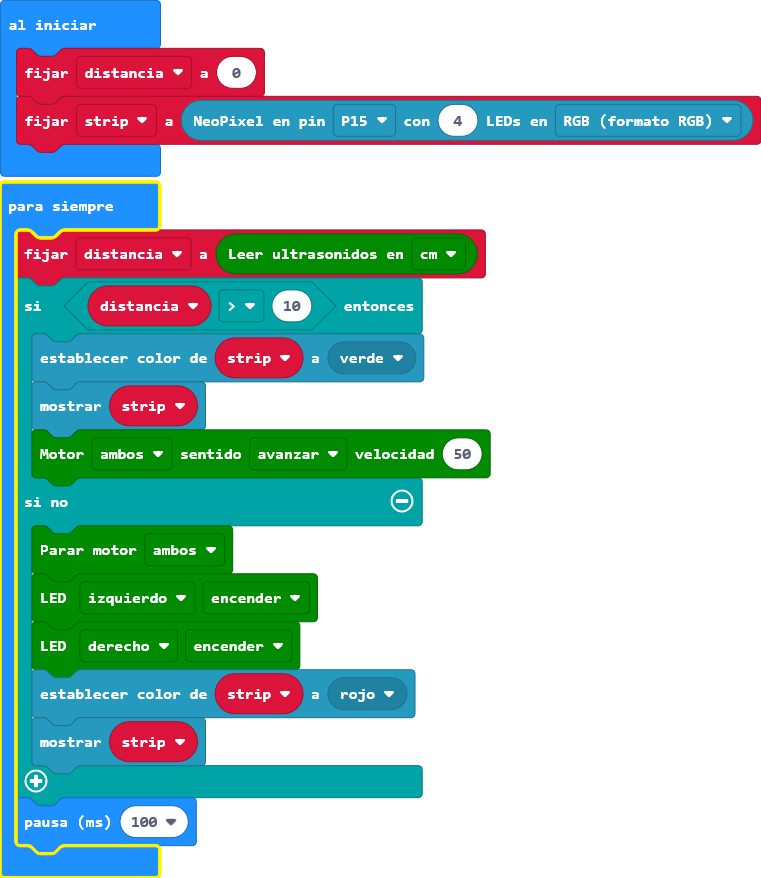
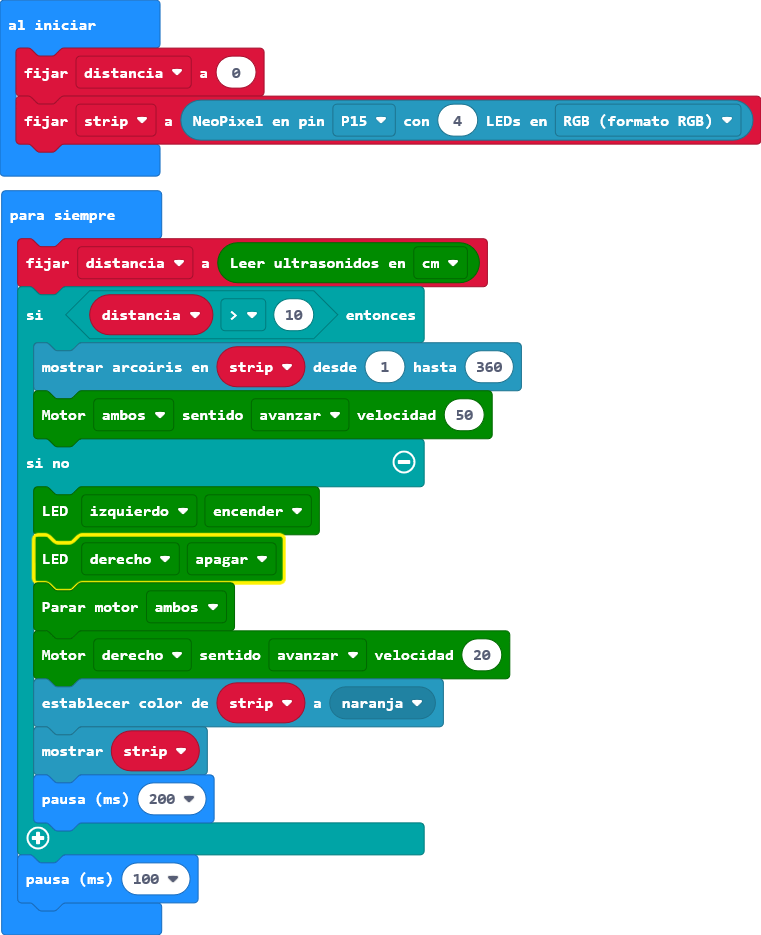
Actualizar main.blocks, main.ts

Changed region(s): [[0.0, 0.0, 1.0, 1.0]]

diff --git a/main.ts b/main.ts
@@ -3,15 +3,16 @@ let strip = neopixel.create(DigitalPin.P15, 4, NeoPixelMode.RGB)
 basic.forever(function () {
     distancia = maqueen.Ultrasonic(PingUnit.Centimeters)
     if (distancia > 10) {
-        strip.showColor(neopixel.colors(NeoPixelColors.Green))
-        strip.show()
+        strip.showRainbow(1, 360)
         maqueen.motorRun(maqueen.Motors.All, maqueen.Dir.CW, 50)
     } else {
-        maqueen.motorStop(maqueen.Motors.All)
         maqueen.writeLED(maqueen.LED.LEDLeft, maqueen.LEDswitch.turnOn)
-        maqueen.writeLED(maqueen.LED.LEDRight, maqueen.LEDswitch.turnOn)
-        strip.showColor(neopixel.colors(NeoPixelColors.Red))
+        maqueen.writeLED(maqueen.LED.LEDRight, maqueen.LEDswitch.turnOff)
+        maqueen.motorStop(maqueen.Motors.All)
+        maqueen.motorRun(maqueen.Motors.M2, maqueen.Dir.CW, 20)
+        strip.showColor(neopixel.colors(NeoPixelColors.Orange))
         strip.show()
+        basic.pause(200)
     }
     basic.pause(100)
 })
